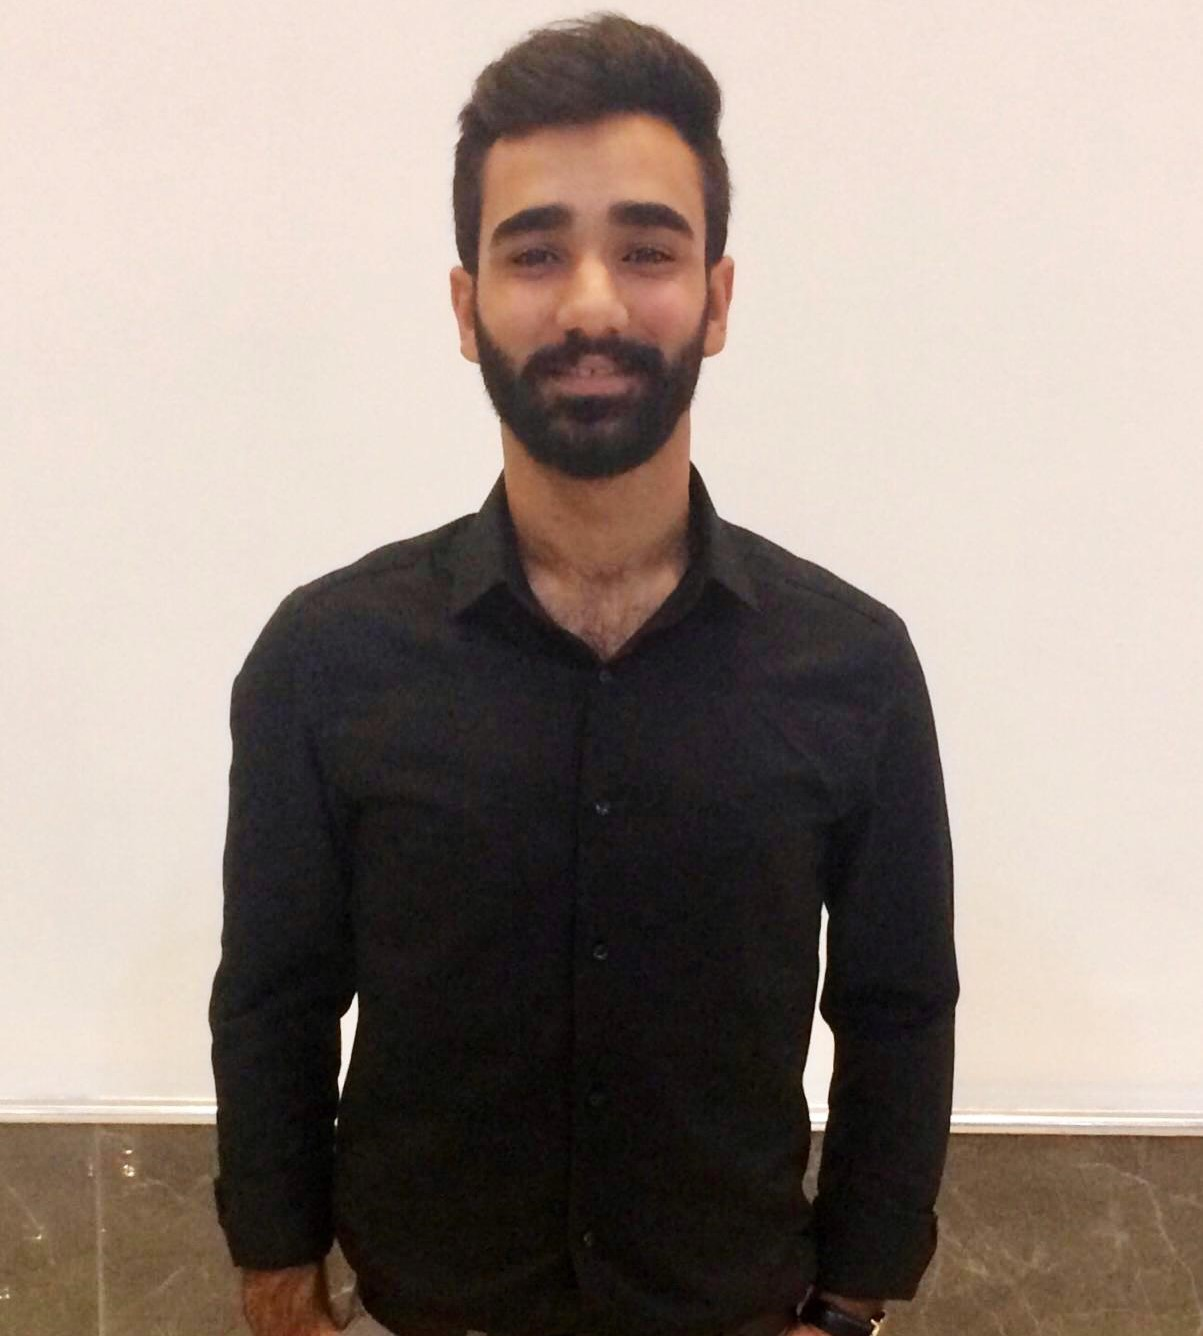
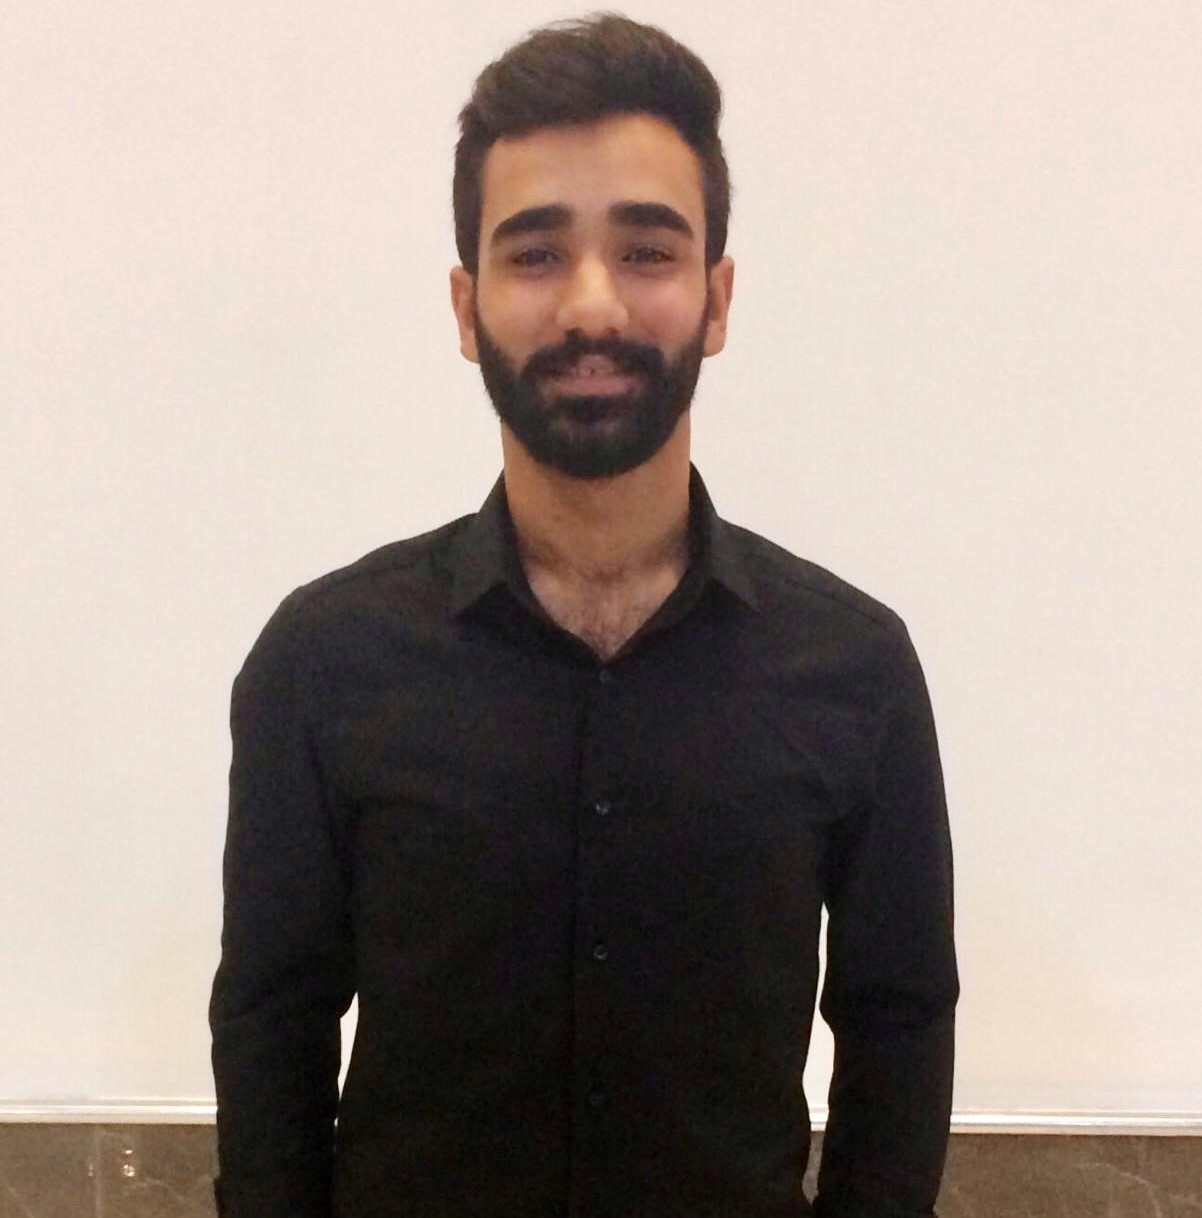
add image for Ayca Kucukdurmaz

diff --git a/index.html b/index.html
@@ -73,7 +73,7 @@
           class="collapse navbar-collapse justify-content-end" id="navbarNav">
             <ul class="navbar-nav">
               <li class="nav-item">
-                <a class="nav-link" aria-current="page" href="#Ana-Sayfa">Ana Sayfa</a>
+                <a class="nav-link" aria-current="page" href="index.html">Ana Sayfa</a>
               </li>
              
               <li class="nav-item dropdown">
@@ -222,8 +222,7 @@
                   </div>
               </div>
           </div>
-
-      <section id="Çözüm">
+          <section id="Çözüm">
           <svg xmlns="http://www.w3.org/2000/svg" 
           viewBox="0 0 1440 320">
             <path fill="#fff" 
@@ -257,7 +256,7 @@
                           <img src="img/duyu.jpg" class=" photo d-block w-100" alt="yazı">
                           <h4 class="text-center baslık  mt-3">EkstrAi Duyu Mobile Application</h4>
                           <p class="text-center">
-                            Sosyal medya yönetir gibi üretim hattınızı yönetin!
+                            Sosyal medya yönetir gibi üretim hattınızı yönetin!<br><br>
                           </p>
                         </div>
                         
@@ -268,7 +267,7 @@
                             Üretim hattı hala karanlık olan işletmeler...<br>
                             Makinelerden dışarı veri alamıyor, çevrimiçi olarak kontrol edemiyor ve verilerini depolayamıyor.<br>
                             EkstrAi, AWS Cloud üzerinden Endüstriyel IoT, Akıllı Sensör, Bilgisayarla Görme ve Edge Computing teknolojilerin güçlerini bir araya getirdi.
-                          </p>
+                          <br><br></p>
                         </div>
 
                         <div class="carousel-item">
@@ -277,7 +276,7 @@
                           <p class="text-center">
                             Makinelerden veri almak Endüstri 4.0 seviyesinde dijitalleşmenin sadece yarısı...<br>
                             İnsan hatalarını önüne geçmek için kullanalan RFID, Fingerprint and Face Recognition teknolojileri, 
-                            üretim hattının dezavantajlarına uygun olarak yerleştirir.<br>
+                            üretim hattının dezavantajlarına uygun olarak yerleştirir.<br><br>
                           </p>
                         </div>
 
@@ -314,13 +313,13 @@
     <svg xmlns="http://www.w3.org/2000/svg" viewBox="0 0 1440 320"><path fill="#fff" fill-opacity="1" d="M0,288L1440,128L1440,0L0,0Z"></path></svg>
     <h1>About Us Page</h1>
     <p>Some text about who we are and what we do.</p>
-    <p>Resize the browser window to see that this page is responsive by the way.</p>
+    <p id="Takım">Resize the browser window to see that this page is responsive by the way.</p>
   </div>
 
   <!--Biz kimiz Finish-->
 
     <!--TAKIM-->
-    <div class="section text-center gradient text-light g-5" id="Takım">        
+    <div class="section text-center gradient text-light g-5" >        
         <div class="container">
         <div class="row">
             <div class="col-md-10 mx-auto">
@@ -338,7 +337,7 @@
             <div class="row">
                 <div class="col-md-4 col-sm-6 g-5">
                     <div class="card bg-dark">
-                            <img src="img/data.svg" alt="">
+                            <img src="img/Ayça K.jpg" alt="">
                         <div class="card-text">
                             <h3>Ayça <br> KÜÇÜKDURMAZ </h3>
                             <h5>CEO&Founder</h5>
@@ -417,8 +416,6 @@
     <!-- Copyright -->
   </footer>
   <!--FOOTER FINISH-->
-
-
 
 
 

diff --git a/css/styles.css b/css/styles.css
@@ -208,10 +208,3 @@ footer a{
     color: white;
 }
 
-
-
-
-
-
-
-  
